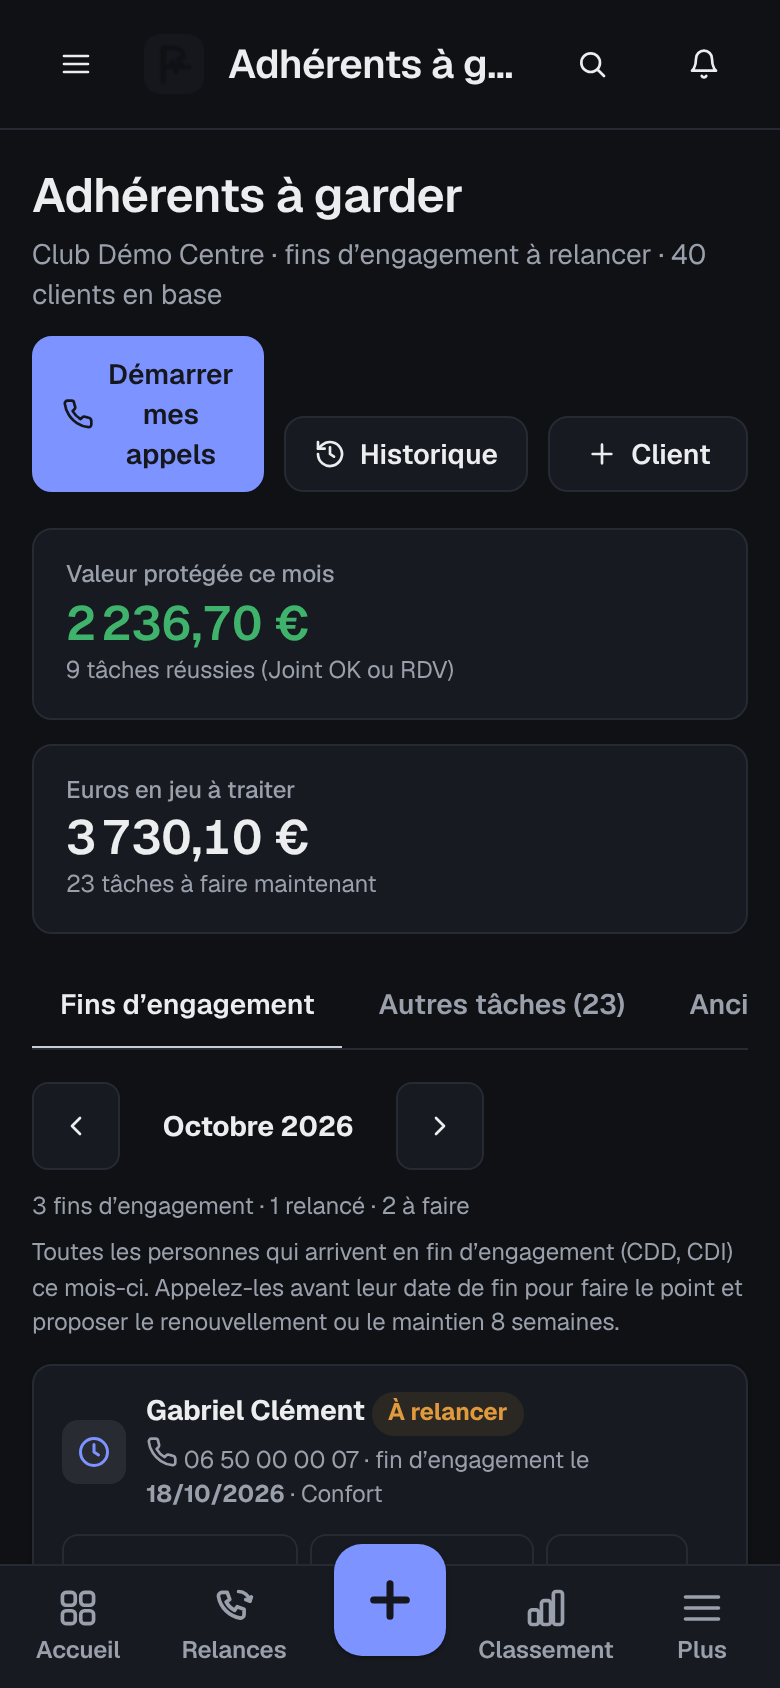
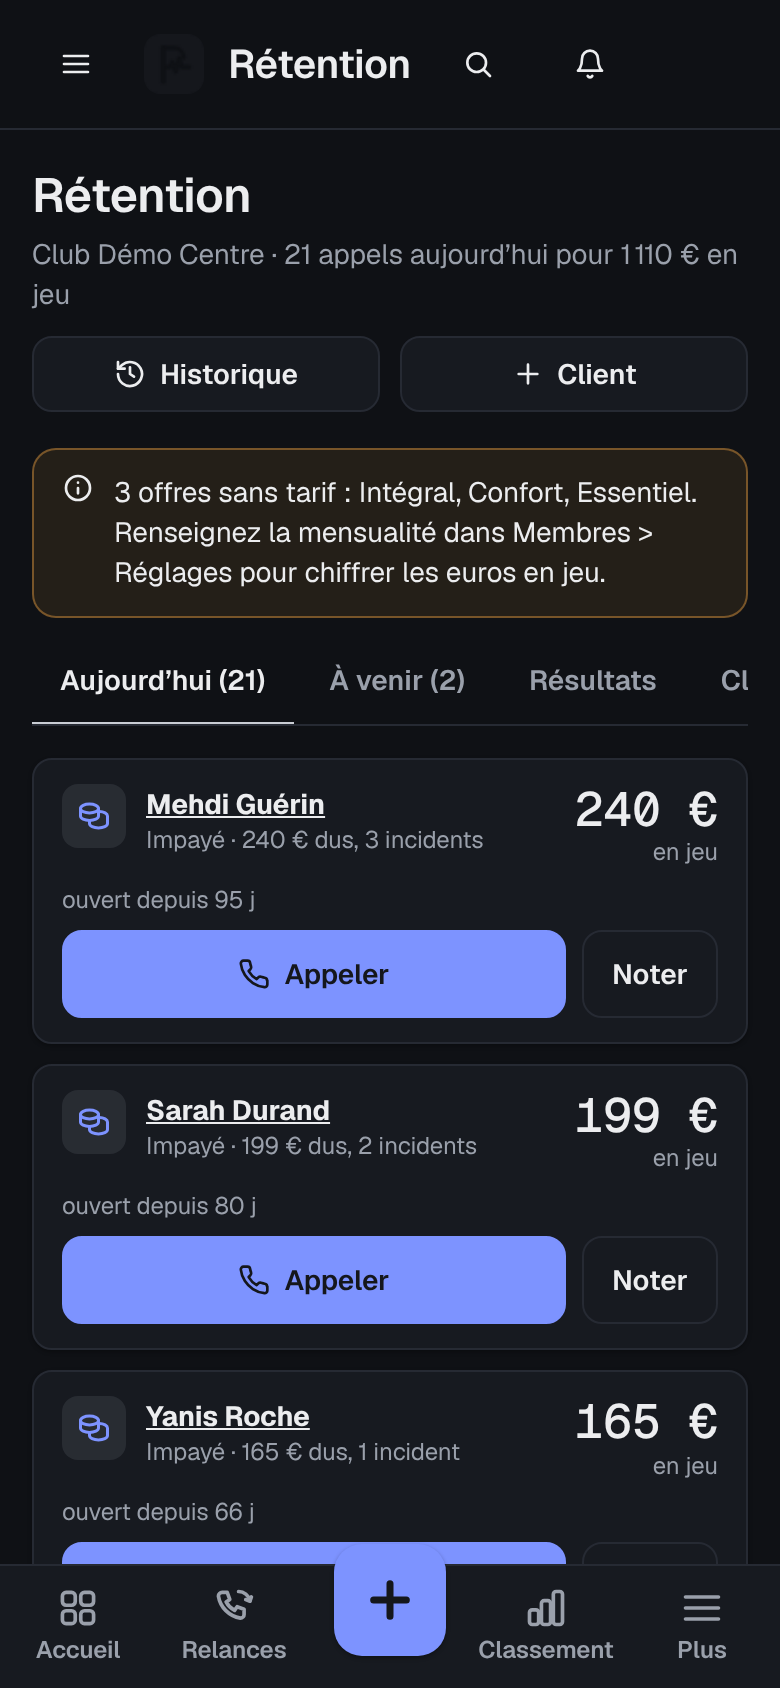
Version 2026.10.8 : journal et compte rendu du lot Confiance
docs/lot-confiance.md : lancement du test console, fichiers et lignes
modifiés par point (3, 4, 6, 7), total Impayés récupérés, migrations,
points restants. Captures régénérées.

Claude-Session: https://claude.ai/code/session_01CJRNhJB98QJFn8u6aP8R2r

diff --git a/club/core.js b/club/core.js
@@ -11,7 +11,7 @@
 // Configuration du déploiement (config.js). Repli sur les anciens noms window.PARKPULSE_* pour une installation existante.
 const CFG = window.FITPULSE_CONFIG || { firebase: window.PARKPULSE_FIREBASE, club: window.PARKPULSE_CLUB, assets: window.PARKPULSE_ASSETS, demo: window.PARKPULSE_DEMO, mailAuto: window.PARKPULSE_MAIL_AUTO };
 CFG.assets = CFG.assets || {};
-const APP = { name: TXT.app.nom, tagline: TXT.app.accroche, version: '2026.10.7' };
+const APP = { name: TXT.app.nom, tagline: TXT.app.accroche, version: '2026.10.8' };
 // ── Le client (S.tenant) : nom, enseigne, logo, couleurs, société, panier moyen ──
 // Saisi à la création du club (formulaire de départ), modifiable dans Club et réglages.
 // Aucune valeur par défaut ne cite une enseigne, une ville ou une personne.

diff --git a/club/docs/lot-confiance.md b/club/docs/lot-confiance.md
@@ -1,0 +1,71 @@
+# Lot Confiance : compte rendu
+
+Version 2026.10.8. Points 3, 4, 6 et 7 du lot G (impayés et rétention), un commit par point.
+
+## Lancer le test
+
+- Navigateur : ouvrir l'appli, se connecter, coller le contenu de `club/outils/test-confiance.js` dans la console. Une ligne `OK` ou `KO` par critère, puis le total. Le script travaille sur un club de test en mémoire, n'écrit rien en base et remet l'état d'origine à la fin.
+- Sans navigateur : `TZ=Europe/Paris node --test club/tests/confiance.test.mjs` (même script, vérifie en plus que l'état est intact et qu'aucune écriture n'est partie).
+- Tests détaillés du lot : `TZ=Europe/Paris node --test club/tests/lotg.test.mjs`.
+
+Résultat au moment du commit : 22 critères sur 22 en `OK`, dans Node et dans Chromium sur la démo.
+
+## Point 3 : un seul « Payé », un seul crédit (commit 79a21c0)
+
+| Fichier | Lignes | Changement |
+| --- | --- | --- |
+| `club/pages-ops.js` | 468 à 489 | `dnId` puis `markPaid(c, amount, opts)` : la seule fonction qui enregistre un impayé récupéré ; crédit à `dunning.ownerId`, sinon à l'auteur ; dossier soldé : aucune seconde saisie. `markPaidOps` devient un alias. |
+| `club/pages-ops.js` | 455 | Modale « Réglé » de la page Impayés : passe par `markPaid`. |
+| `club/relances.js` | 374 | Issue « Payé » d'une relance : passe par `markPaid`. |
+| `club/pages-data.js` | 313 et suivantes | `loyAct` : un impayé ouvre la feuille du dossier (`dunSheet`), plus d'enregistrement direct. |
+| `club/pages-home.js` | 101 à 110 | `QUICK_EUR` sans Impayés. |
+| `club/pages-main.js` | 388, 403 à 410 | Saisie détaillée : client obligatoire pour un impayé (`saisieClientImpaye`, `saisieClientTrouve`), enregistrement par `markPaid`. |
+| `club/impayes.js` | 1 à 40 | Membres > Contrôles : `ctlImpayes`, `memControles`, `ctlFusion` (fusion avec l'import, tracée dans l'audit), rattachement d'un client. |
+| `club/pages-team.js` | 11 | Onglet Contrôles dans Membres. |
+
+## Point 4 : acomptes (commits e888b09 et 21a7df9)
+
+| Fichier | Lignes | Changement |
+| --- | --- | --- |
+| `club/pages-ops.js` | 291 | Statut `partiel` : « Acompte reçu ». |
+| `club/pages-ops.js` | 468 à 489 | Montant inférieur au solde : solde réduit, `paid` cumulé, ligne d'historique « Acompte 50,00 €, reste 70,00 € » ; identifiant `dn_<client>_<date>_<n>` pour deux acomptes le même jour. |
+| `club/pages-ops.js` | 363 et suivantes | Badge « Acompte reçu » dans la liste. |
+| `club/core.js` | `fmtEc` | Montant au centime pour l'historique. |
+| `club/impayes.js` | 110 à 111 | Feuille du dossier : « Payé » et « Acompte » avec le reste dû dans le message. |
+
+## Point 6 : un dossier, une histoire (commit 76728e7)
+
+| Fichier | Lignes | Changement |
+| --- | --- | --- |
+| `club/impayes.js` | 42 à 116 | Issues `DUN_OUTCOMES` (sans « Joint, OK » ni « RDV »), `dunHist`, `dunSheet` (même feuille depuis l'accueil, Rétention, Relances et Impayés), `dunIssueOps` (historique, statut, prochaine relance). |
+| `club/impayes.js` | 117 à 135 | Tiroir d'historique `dunHistOpen` ; `migrerLoyaltyImpayes` : anciennes actions Rétention de type impayé recopiées une fois dans `dunning.history`, drapeau `migratedLoyalty`, rejouable sans effet. |
+| `club/app.js` | 36 | Migration lancée après la connexion. |
+| `club/calc.js` | 501 et suivantes | `loyaltyTasks` lit les impayés dans le dossier (`dunning`), perdu seulement si le dossier l'est. |
+| `club/relances.js` | `relSheet` | Une relance impayé ouvre la feuille du dossier. |
+
+## Point 7 : cadences, 4 h, Perdus (commit b5dfeb7)
+
+| Fichier | Lignes | Changement |
+| --- | --- | --- |
+| `club/calc.js` | 461 et suivantes | Types `suivi15` et `suivi30` (ancien `suivi` reconnu) ; issues « SMS programmé », « À rappeler », « Insatisfait », « Envoyé ». |
+| `club/calc.js` | 501 et suivantes | Tentatives comptées par `tentativesComptees` (4 h d'écart ou autre jour), plus de passage automatique en Perdus, drapeau `aConfirmer` à 3 tentatives. |
+| `club/impayes.js` | 47 à 58 | `tentativesComptees`, `tentativeRecente`, `dejaTente` (« Déjà tenté à 10 h 12 »). |
+| `club/pages-data.js` | 313 à 345 | `loyAct` : refus avant 4 h, cadence de la prochaine action ; `loyPerdre` : fenêtre de confirmation (3 tentatives, « Programmer un SMS », « Classer perdu »), `loyPerdreOk`. |
+| `club/pages-data.js` | 370 à 390 | `loyPerf` et `suivisRealises` : J+15 et J+30 réalisés comptés dans Résultats. |
+
+## Total « Impayés récupérés »
+
+Un seul calcul (`recoveredFor`, `club/calc.js` 89 à 107) pour l'accueil, la page Impayés, le classement (`ranking`, KPI impayes) et le récapitulatif (`monthFigures().impayesEquipe`). Le script compare les quatre valeurs à la somme des saisies du mois : identiques.
+
+## Données existantes
+
+Aucune donnée supprimée. Les migrations sont idempotentes et marquées : `dunning.migratedLoyalty` (actions impayé), `firstIncidentAt` posé seulement s'il manque. Les anciennes actions `suivi` restent lisibles comme J+15 ou J+30 selon leur date.
+
+## Points restants
+
+- SMS : le bouton ouvre l'application SMS du téléphone ; aucun envoi automatique (pas de fournisseur SMS branché). « Programmer un SMS » crée un rappel, pas un envoi différé.
+- Bibliothèque de scripts : partage réseau dans `scriptsReseau` du club, pas encore partagé entre organisations (`/orgs`).
+- Tarifs de la rétention saisis à la main ou repris de Resamania quand l'export le permet ; sans tarif, la carte affiche « tarif à renseigner » et passe après les autres.
+- Rapport ROI : « non calculable » tant qu'aucun import Incidents n'existe pour le mois.
+- La démo « Club Horizon » reste utilisée par les captures et les tests ; `?demo=1` lance désormais le Club Démo Centre.
+- Déploiement et dépôt « fit-pulse » : en attente de votre feu vert.

diff --git a/club/CHANGELOG.md b/club/CHANGELOG.md
@@ -1,5 +1,15 @@
 # Journal des versions de Fit Pulse
 
+## 2026.10.8 (octobre 2026)
+- Impayés : un seul enregistrement « Payé » (markPaid) quel que soit l'écran, crédité au responsable du dossier sinon à l'auteur ; client obligatoire pour une saisie détaillée ; Membres > Contrôles (saisies sans client, fusion avec l'import).
+- Acomptes : « Acompte reçu », reste dû, historique au centime ; deux acomptes le même jour donnent deux saisies distinctes.
+- Date du premier incident conservée d'un import à l'autre, colonne « Depuis » et délai médian de récupération.
+- Un seul dossier impayé : mêmes issues et même historique dans Rétention, Relances et Impayés ; migration unique des anciennes actions (drapeau migratedLoyalty).
+- Rétention : suivis J+15 et J+30, 4 h entre deux tentatives (« Déjà tenté à »), confirmation avant Perdus ; page refaite (Aujourd'hui, À venir, Résultats, Clients perdus) triée par euros en jeu, tarifs dans Membres > Réglages.
+- Appels en 3 taps depuis l'accueil (Mes appels du jour) pour les impayés et la rétention ; promesse de paiement, rappel, transfert au manager.
+- Onglet Résultats commun (indicateurs avec formule, Euros gardés, bibliothèque de scripts partagée au réseau) ; rapport ROI mensuel sur une page A4.
+- Démonstration « Club Démo Centre » (?demo=1) et visite guidée en 6 étapes ; script de test du lot Confiance à coller dans la console.
+
 ## 2026.10.7 (octobre 2026)
 - Relève des résiliations : messages au score de 2 dans un onglet « À vérifier » (« C'est une demande » ou « Ignorer ») ; motif toujours pris dans la liste du club, « Santé » sans détail ; règles communes au script Gmail et à l'appli, testées sur 12 e-mails anonymisés.
 - Rattachement à la fiche client (e-mail, numéro, nom), suggestions quand plusieurs fiches se ressemblent, fusion des doublons, import Resamania rattaché au dossier ouvert du même client ; dossiers visibles dans la fiche client.
